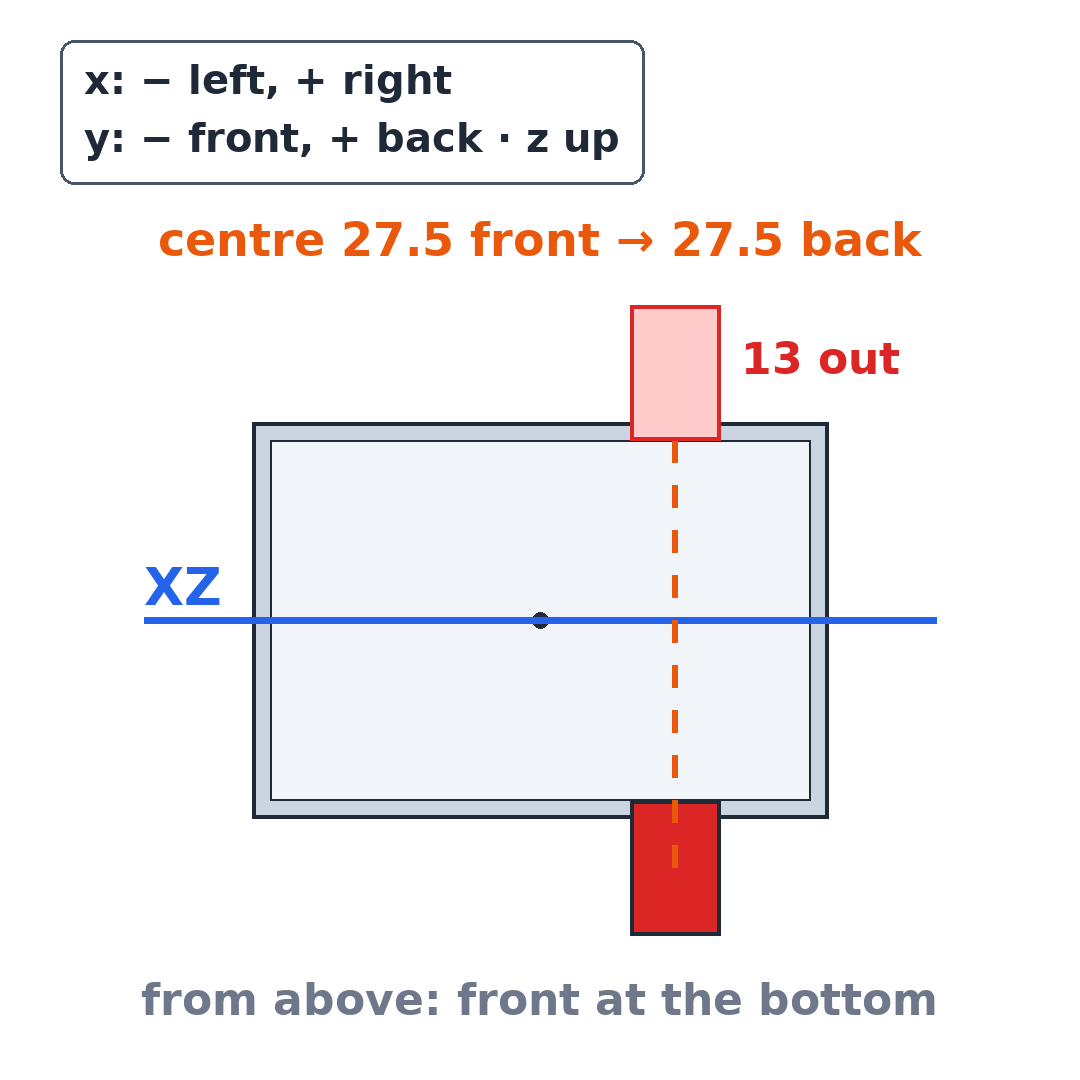
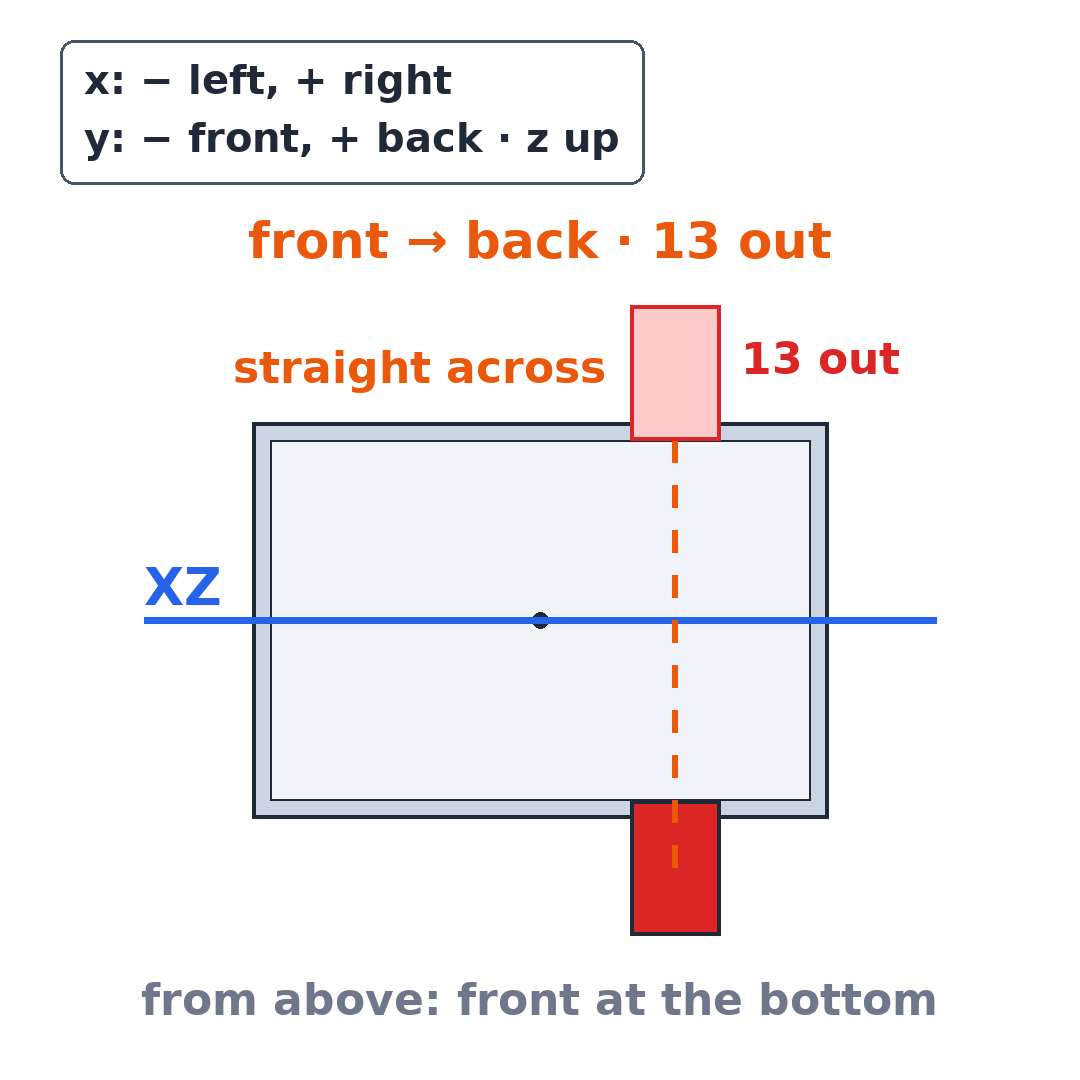
fc17 cut 2 cards: code boxes build (a = first line), fold chips apart, peg centre vs end labelled, Short XZ card in 3 builds without 27.5
Claude-Session: https://claude.ai/code/session_01BKaTyjjjzT84TFwxoSwewu

Changed region(s): [[0.2139, 0.3056, 0.5806, 0.3667], [0.1528, 0.1833, 0.55, 0.2444], [0.5806, 0.1833, 0.8556, 0.2444]]

diff --git a/video/draw_fc17.py b/video/draw_fc17.py
@@ -144,6 +144,9 @@ def sheet(d, box, crease, blobs, on=True, r=46):
             d.ellipse((cx - r, cy - r, cx + r, cy + r), fill=col)
 
 
+FOLD_CHIPS = {}
+
+
 def card_fold(step):
     im, d = canvas()
     header(d, 'Paint on paper, then fold')
@@ -158,7 +161,7 @@ def card_fold(step):
         sheet(d, one, 'down', [((0.8, 0.8), False), ((0.2, 0.8), True)], on=step == 4)
         sheet(d, two, 'across', [((0.8, 0.8), False), ((0.8, 0.2), True)])
         if step == 3:
-            chip(d, (1420, 1200), 'wrong crease: wrong place', 60)
+            FOLD_CHIPS[3] = chip(d, (1420, 1200), 'wrong crease: wrong place', 60)
         else:
             for bx, horiz in ((one, False), (two, True)):
                 x0, y0, x1, y1 = bx
@@ -167,7 +170,8 @@ def card_fold(step):
                     d.rounded_rectangle((x0 - 14, cy - 34, x1 + 14, cy + 34), radius=30, outline=ORANGE, width=8)
                 else:
                     d.rounded_rectangle((cx - 34, y0 - 14, cx + 34, y1 + 14), radius=30, outline=ORANGE, width=8)
-            chip(d, (760, 1200), 'the crease sits between them', 64)
+            # cut 2 (f021): under sheet one, clear of step 3's chip under sheet two (the 0.35 s dissolve showed both)
+            FOLD_CHIPS[4] = chip(d, (260, 1200), 'the crease sits between them', 64)
     save(im, f'card-fold-{step}.png')
 
 
@@ -319,7 +323,10 @@ def card_top(step):
         top_cup(d)
         rect_xy(d, 10, 20, -35, -20, PAINT, INK, 4)                       # the peg = the blob, front right
         p = T(*peg)
-        text(d, (p[0], T(0, -35)[1] + 18), 'peg: x 15, y −27.5', 44, PAINT, anchor='ma')
+        # cut 2 (REVIEW-watch-fc17-c1): Claude's reply says y −35 (the peg's front end); name both numbers
+        lx, ly = T(10, 0)[0] - 24, T(0, -22)[1] + 18                     # left of the peg, under the cup's front
+        text(d, (lx, ly), 'peg centre: x 15, y −27.5', 44, PAINT, anchor='ra')
+        text(d, (lx, ly + 56), 'its end: y −35', 44, PAINT, anchor='ra')
         o = T(0, 0)
         d.ellipse((o[0] - 10, o[1] - 10, o[0] + 10, o[1] + 10), fill=INK)
         a, z = T(-44, 0), T(44, 0)
@@ -434,7 +441,7 @@ def card_end():
 
 
 # --- Short (S0, S2, S3) -------------------------------------------------------------------------------------------------
-def card_why_short(step):
+def card_why_short(step, build=3):
     """S2 (1080 x 1080), from above, the origin at the cup's middle: 1 XZ across, the peg's centre 27.5 in front, its
     copy 27.5 behind (13 out of the back wall); 2 YZ down the middle, 15 right → 15 left; 3 + "missing letter flips"."""
     CUR.clear()
@@ -455,13 +462,18 @@ def card_why_short(step):
     d.ellipse((o[0] - 8, o[1] - 8, o[0] + 8, o[1] + 8), fill=INK)
     text(d, (540, 1000), 'from above: front at the bottom', 44, GREY, anchor='mm', frame=fr)
     if step == 1:
+        # Short cut 2 (REVIEW-watch-fc17-short-c1): builds a plane + peg, b + the path across, s1 + the copy and
+        # "13 out"; no 27.5 (never spoken)
         d.line((t(-44, 0), t(44, 0)), fill=BLUE, width=7)
         text(d, (t(-44, 0)[0], t(0, 0)[1] - 64), 'XZ', 52, BLUE, frame=fr)
         c = mirror((15, -27.5), 'XZ')
-        f10.dashed(d, t(15, -27.5), t(c[0], c[1] - 2.5), ORANGE, width=6)
-        r(10, 20, 20, 35, BACKFILL, PAINT, 4)
-        text(d, (540, 240), 'centre 27.5 front → 27.5 back', 46, ORANGE, anchor='mm', frame=fr)
-        text(d, (t(21, 0)[0] + 12, t(0, 29)[1]), '13 out', 44, PAINT, anchor='lm', frame=fr)
+        if build >= 2:
+            f10.dashed(d, t(15, -27.5), t(c[0], c[1] - 2.5), ORANGE, width=6)
+            text(d, (t(10, 0)[0] - 24, t(0, 28)[1]), 'straight across', 44, ORANGE, anchor='rm', frame=fr)
+        if build >= 3:
+            r(10, 20, 20, 35, BACKFILL, PAINT, 4)
+            text(d, (540, 240), 'front → back · 13 out', 50, ORANGE, anchor='mm', frame=fr)
+            text(d, (t(21, 0)[0] + 12, t(0, 29)[1]), '13 out', 44, PAINT, anchor='lm', frame=fr)
     else:
         d.line((t(0, -38), t(0, 28)), fill=GREEN, width=7)
         text(d, (t(2, 16)[0], t(2, 16)[1]), 'YZ', 52, GREEN, frame=fr)
@@ -472,7 +484,7 @@ def card_why_short(step):
     if step == 3:
         text(d, (540, 245), 'missing letter flips', 56, ORANGE, anchor='mm', frame=fr)
     axis_key(d, (60, 40), AXIS_S, px=40, frame=fr)
-    save(im, f'card-why-s{step}.png')
+    save(im, f'card-why-s{step}{"ab"[build - 1] if step == 1 and build < 3 else ""}.png')
 
 
 def band_lines(name, lines, y0, px_list, fill=ORANGE + (242,), col=WHITE):
@@ -559,21 +571,26 @@ def panels():
     code_panel('ov-in-F5.png', ['copy at y 20 to 35: behind', 'front: 1 peg · one solid', 'no message, no mark'],
                PANEL_LL)
     assert fx['centre_gap'] == 30.0 and fx['face_gap'] == 20.0 and fx['y_extent'] == 57.0
-    code_panel('ov-in-F8.png', ['pegs x 10 to 20, −20 to −10', '15 + 15 = 30 centre to centre',
-                                '30 − one peg 10 = 20 gap', 'back clear'], PANEL_LL)
+    # cut 2 (REVIEW-watch-fc17-c1 must-fix 1): each box builds (a = its first line) and holds 8 s+; F8 keeps the
+    # spoken lines only (the gap and the back have their own Measure / back shots)
+    f8 = ['pegs x 10 to 20, −20 to −10', '15 + 15 = 30 centre to centre']
+    code_panel('ov-in-F8a.png', f8[:1], PANEL_LL)
+    code_panel('ov-in-F8.png', f8, PANEL_LL)
     assert NUM['q4_fix_vaxis']['volume'] == fx['volume']
+    code_panel('ov-in-F9a.png', ['sketch axis = Base YZ'], PANEL_LL)
     code_panel('ov-in-F9.png', ['sketch axis = Base YZ', 'same part, same volume'], PANEL_LL)
     p20, w3 = pr['peg_x20'], pr['wall3']
     assert p20['x_runs_front'] == [[-25.0, -15.0], [15.0, 25.0]] and p20['centre_gap'] == 40.0
     assert p20['face_gap'] == 30.0 and p20['x_runs_back'] == []
-    code_panel('ov-in-K1.png', ['peg_x 20: pegs at 15 to 25', 'and −25 to −15', '40 centre to centre', '30 between'],
-               PANEL_LL)
+    code_panel('ov-in-K1a.png', ['peg_x 20: 40 centre to centre'], PANEL_LL)
+    code_panel('ov-in-K1.png', ['peg_x 20: 40 centre to centre', '30 between them'], PANEL_LL)
     assert w3['solids'] == 1 and w3['y_extent'] == 58.0 and w3['x_runs_back'] == []
     code_panel('ov-in-K2.png', ['wall 3: one solid', '58 front to back, back clear'], PANEL_LL)
     xz = pr['xz_peg_x20']
     assert xz['x_runs_back'] == [[15.0, 25.0]] and xz['behind_back'] == 13.0
     code_panel('ov-in-K3.png', ['fixed file, peg_x 20: copy −20', 'XZ file, peg_x 20: copy behind'], PANEL_LL)
-    code_panel('ov-sk-F4.png', ['sketch: XZ plane,', 'pushed 20 forward'], PANEL_LL,
+    code_panel('ov-sk-F4a.png', ['drawn on the XZ plane'], PANEL_LL, title="the peg's sketch (lesson 14)")
+    code_panel('ov-sk-F4.png', ['drawn on the XZ plane', 'so XZ looks right. It is not.'], PANEL_LL,
                title="the peg's sketch (lesson 14)")
     for run in ('A1', 'B1'):
         at = RUNS[run]['at']
@@ -701,6 +718,8 @@ def main():
     card_end()
     for s in range(1, 4):
         card_why_short(s)
+    card_why_short(1, 1)
+    card_why_short(1, 2)
     short_overlays()
     chips()
     panels()

diff --git a/tests/test_draw_fc17.py b/tests/test_draw_fc17.py
@@ -18,10 +18,11 @@ import draw_fc17 as d  # noqa: E402
 
 CARDS = ([f'card-fold-{i}.png' for i in range(1, 5)] + [f'card-names-{i}.png' for i in range(1, 4)] +
          [f'card-top-{i}.png' for i in range(1, 7)] + [f'card-axis-{i}.png' for i in range(1, 4)] + ['card-centred-1.png', 'card-end.png'])
-SHORT = ['card-why-s1.png', 'card-why-s2.png', 'card-why-s3.png']
+SHORT = ['card-why-s1a.png', 'card-why-s1b.png', 'card-why-s1.png', 'card-why-s2.png', 'card-why-s3.png']
 SHORT_OV = ['card-short-head.png', 'short-head.png', 'short-q.png', 'short-series.png']
 PANELS = ['ov-in-F1.png', 'ov-in-F5.png', 'ov-in-F8.png', 'ov-in-F9.png', 'ov-in-K1.png', 'ov-in-K2.png',
-          'ov-in-K3.png', 'ov-sk-F4.png', 'ov-cc-A1.png', 'ov-cc-B1.png']
+          'ov-in-K3.png', 'ov-sk-F4.png', 'ov-cc-A1.png', 'ov-cc-B1.png',
+          'ov-in-F8a.png', 'ov-in-F9a.png', 'ov-in-K1a.png', 'ov-sk-F4a.png']   # cut 2: the first build of each
 CHIPS = ['ov-chip-run-A1.png', 'ov-chip-run-B1.png', 'ov-chip-cc-version.png']
 LOWER = ['sub-1.png', 'sub-2.png', 'rc-1.png', 'rc-2.png', 'yt-1.png']
 STILLS = ['st-A1.png', 'st-A1z.png', 'st-B1f.png', 'st-B1b.png']
@@ -89,7 +90,7 @@ def test_columns_and_words(run):
 
 def test_panel_titles(run):
     for n in PANELS:
-        title = "the peg's sketch (lesson 14)" if n == 'ov-sk-F4.png' else 'checked by code'
+        title = "the peg's sketch (lesson 14)" if n.startswith('ov-sk-F4') else 'checked by code'
         assert texts(run, n)[0] == title, n
     for n in ('st-A1z.png', 'st-B1f.png', 'st-B1b.png'):
         assert 'checked by code' in texts(run, n), n
@@ -99,13 +100,16 @@ def test_panel_lines_exact(run):
     want = {
         'ov-in-F1.png': ['2 pegs on the front', 'back clear'],
         'ov-in-F5.png': ['copy at y 20 to 35: behind', 'front: 1 peg · one solid', 'no message, no mark'],
-        'ov-in-F8.png': ['pegs x 10 to 20, −20 to −10', '15 + 15 = 30 centre to centre', '30 − one peg 10 = 20 gap',
-                         'back clear'],
+        'ov-in-F8a.png': ['pegs x 10 to 20, −20 to −10'],
+        'ov-in-F8.png': ['pegs x 10 to 20, −20 to −10', '15 + 15 = 30 centre to centre'],
+        'ov-in-F9a.png': ['sketch axis = Base YZ'],
         'ov-in-F9.png': ['sketch axis = Base YZ', 'same part, same volume'],
-        'ov-in-K1.png': ['peg_x 20: pegs at 15 to 25', 'and −25 to −15', '40 centre to centre', '30 between'],
+        'ov-in-K1a.png': ['peg_x 20: 40 centre to centre'],
+        'ov-in-K1.png': ['peg_x 20: 40 centre to centre', '30 between them'],
         'ov-in-K2.png': ['wall 3: one solid', '58 front to back, back clear'],
         'ov-in-K3.png': ['fixed file, peg_x 20: copy −20', 'XZ file, peg_x 20: copy behind'],
-        'ov-sk-F4.png': ['sketch: XZ plane,', 'pushed 20 forward'],
+        'ov-sk-F4a.png': ['drawn on the XZ plane'],
+        'ov-sk-F4.png': ['drawn on the XZ plane', 'so XZ looks right. It is not.'],
         'ov-cc-A1.png': ['its file: peg_x 15, 20, 8', 'and wall 3:', '2 pegs front, back clear'],
         'ov-cc-B1.png': ['its file: peg_x 15, 20, 8', 'and wall 3: passed', 'pegs stick out 13',
                          'hanging hole: back wall'],
@@ -118,9 +122,9 @@ def test_key_words_drawn(run):
     allt = alltext(run)
     for s in ['fold down the middle', 'copy beside it', 'wrong crease: wrong place', 'the crease sits between them',
               'x: − left, + right · z up', 'y: − front, + back', 'x: − left, + right', 'y: − front, + back · z up',
-              'the paper, seen from above', '27.5 in front → 27.5 behind', 'the crease across → top right',
+              'the paper, seen from above', 'peg centre: x 15, y −27.5', 'its end: y −35', '27.5 in front → 27.5 behind', 'the crease across → top right',
               '15 right → 15 left', 'missing letter flips; the other two stay', 'XZ → y flips', 'YZ → x flips',
-              "the sketch's", 'vertical axis', 'same plane here', 'centred in lesson 14', 'centre 27.5 front → 27.5 back', 'missing letter flips',
+              "the sketch's", 'vertical axis', 'same plane here', 'centred in lesson 14', 'front → back · 13 out', 'missing letter flips',
               'not asked to check · $0.15', 'asked to check · $0.12', 'Claude Code 2.1.308 · Sonnet 5.5',
               'Lesson 18: a round pen cup', 'comes out twice as wide', 'Every fix tested in both programs,',
               'by hand and with Claude · Subscribe', 'Plane = crease halfway between', 'YZ: x is missing, so x flips',
@@ -143,7 +147,20 @@ def test_builds_add(run):
     assert '15 right → 15 left' in texts(run, 'card-why-s3.png')
     assert 'missing letter flips' in texts(run, 'card-why-s3.png')
     assert 'missing letter flips' not in texts(run, 'card-why-s2.png')
-    assert 'centre 27.5 front → 27.5 back' in texts(run, 'card-why-s1.png')
+    assert 'front → back · 13 out' in texts(run, 'card-why-s1.png')
+
+
+def test_short_xz_card_builds_without_27_5(run):
+    """Short cut 2 (REVIEW-watch-fc17-short-c1 must-fix 2): the XZ card builds (plane + peg, + the path, + the copy
+    and 13 out) and never shows the unspoken 27.5."""
+    a, b, c = (set(texts(run, f'card-why-{n}.png')) for n in ('s1a', 's1b', 's1'))
+    assert 'XZ' in a and '13 out' not in a and '13 out' not in b and '13 out' in c
+    assert a <= b <= c
+    for n in ('s1a', 's1b', 's1', 's2', 's3'):
+        assert not any('27.5' in t for t in texts(run, f'card-why-{n}.png')), n
+    from PIL import ImageChops
+    im = [Image.open(os.path.join(d.OUT, f'card-why-{n}.png')).convert('RGB') for n in ('s1a', 's1b', 's1')]
+    assert ImageChops.difference(im[0], im[1]).getbbox() and ImageChops.difference(im[1], im[2]).getbbox()
 
 
 def test_axis_key_every_names_and_top_card(run):
@@ -204,3 +221,9 @@ def test_no_answers(run):
     t = ' | '.join(texts(run, 'yt-1.png'))
     assert '−45' not in t and '30' not in t
     assert '−25' not in ' | '.join(texts(run, 'short-q.png'))
+
+
+def test_fold_labels_do_not_overlap_in_the_dissolve(run):
+    """cut 2 (f021): card-fold-3's chip and card-fold-4's chip sat in the same place, so the 0.35 s dissolve
+    showed one over the other."""
+    assert not hit(d.FOLD_CHIPS[3], d.FOLD_CHIPS[4]), d.FOLD_CHIPS
